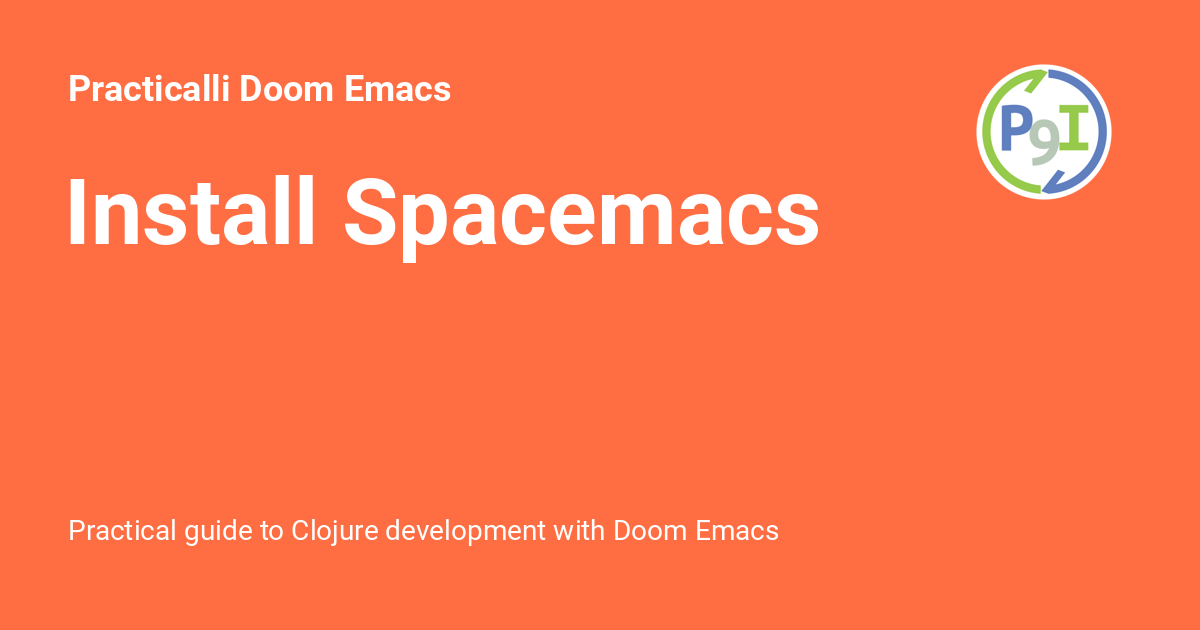
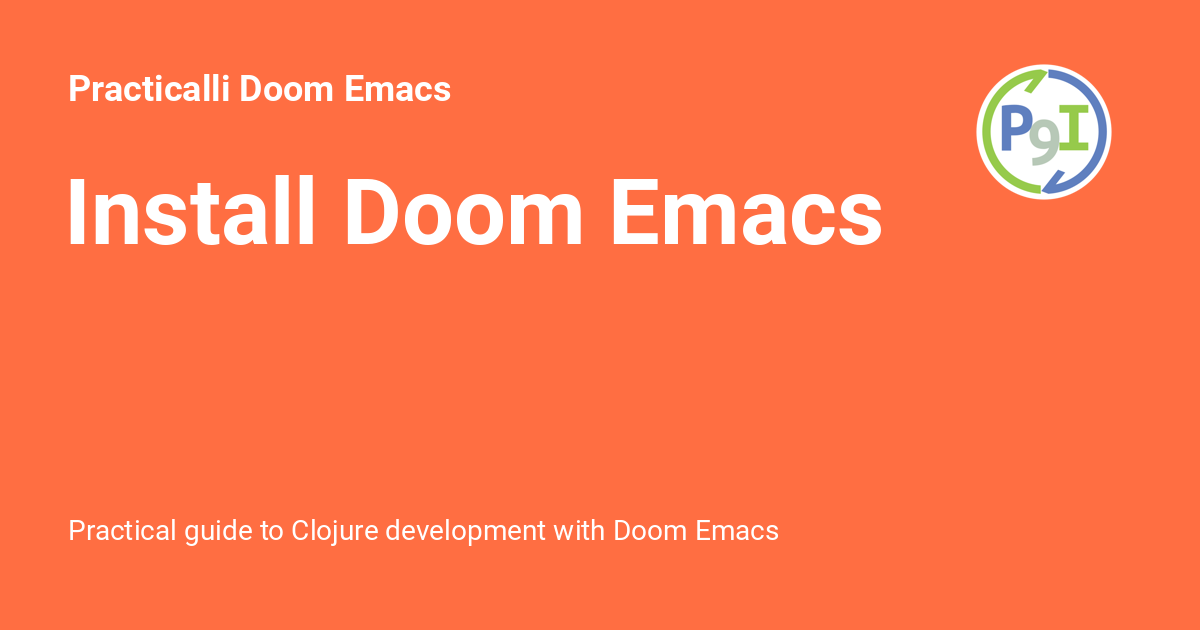
Deployed 2916419 with MkDocs version: 1.4.2

Changed region(s): [[0.2775, 0.2714, 0.74, 0.4222]]

diff --git a/install/index.html b/install/index.html
@@ -12,7 +12,7 @@
 <link href="doom-configuration/" rel="next"/>
 <link href="../assets/favicon.svg" rel="icon"/>
 <meta content="mkdocs-1.4.2, mkdocs-material-9.0.2" name="generator"/>
-<title>Install Spacemacs - Practicalli Doom Emacs</title>
+<title>Install Doom Emacs - Practicalli Doom Emacs</title>
 <link href="../assets/stylesheets/main.f56500e0.min.css" rel="stylesheet"/>
 <link href="../assets/stylesheets/palette.2505c338.min.css" rel="stylesheet"/>
 <link crossorigin="" href="https://fonts.gstatic.com" rel="preconnect"/>
@@ -21,7 +21,7 @@
 <link href="../stylesheets/extra.css" rel="stylesheet"/>
 <script>__md_scope=new URL("..",location),__md_hash=e=>[...e].reduce((e,_)=>(e<<5)-e+_.charCodeAt(0),0),__md_get=(e,_=localStorage,t=__md_scope)=>JSON.parse(_.getItem(t.pathname+"."+e)),__md_set=(e,_,t=localStorage,a=__md_scope)=>{try{t.setItem(a.pathname+"."+e,JSON.stringify(_))}catch(e){}}</script>
 <meta content="website" property="og:type"/>
-<meta content="Install Spacemacs - Practicalli Doom Emacs" property="og:title"/>
+<meta content="Install Doom Emacs - Practicalli Doom Emacs" property="og:title"/>
 <meta content="Practical guide to Clojure development with Doom Emacs" property="og:description"/>
 <meta content="https://practical.li/doom-emacs/assets/images/social/install/index.png" property="og:image"/>
 <meta content="image/png" property="og:image:type"/>
@@ -29,7 +29,7 @@
 <meta content="630" property="og:image:height"/>
 <meta content="https://practical.li/doom-emacs/install/" property="og:url"/>
 <meta content="summary_large_image" name="twitter:card"/>
-<meta content="Install Spacemacs - Practicalli Doom Emacs" name="twitter:title"/>
+<meta content="Install Doom Emacs - Practicalli Doom Emacs" name="twitter:title"/>
 <meta content="Practical guide to Clojure development with Doom Emacs" name="twitter:description"/>
 <meta content="https://practical.li/doom-emacs/assets/images/social/install/index.png" name="twitter:image"/>
 <link href="../assets/stylesheets/glightbox.min.css" rel="stylesheet"/><style>
@@ -50,7 +50,7 @@
 <input autocomplete="off" class="md-toggle" data-md-toggle="search" id="__search" type="checkbox"/>
 <label class="md-overlay" for="__drawer"></label>
 <div data-md-component="skip">
-<a class="md-skip" href="#install-spacemacs">
+<a class="md-skip" href="#install-doom-emacs">
           Skip to content
         </a>
 </div>
@@ -74,7 +74,7 @@
 <div class="md-header__topic" data-md-component="header-topic">
 <span class="md-ellipsis">
             
-              Install Spacemacs
+              Install Doom Emacs
             
           </span>
 </div>
@@ -280,25 +280,24 @@
 <a class="md-nav__link" href="#clone-doom-emacs">
     Clone Doom Emacs
   </a>
-</li>
-<li class="md-nav__item">
-<a class="md-nav__link" href="#post-install">
-    Post install
-  </a>
-</li>
+<nav aria-label="Clone Doom Emacs" class="md-nav">
+<ul class="md-nav__list">
 <li class="md-nav__item">
 <a class="md-nav__link" href="#add-doom-command-to-path">
     Add Doom command to path
   </a>
 </li>
-<li class="md-nav__item">
-<a class="md-nav__link" href="#run-emacs">
-    Run Emacs
-  </a>
+</ul>
+</nav>
 </li>
 <li class="md-nav__item">
 <a class="md-nav__link" href="#clone-practicalli-doom-configuration">
     Clone Practicalli Doom configuration
+  </a>
+</li>
+<li class="md-nav__item">
+<a class="md-nav__link" href="#check-update-doom-emacs">
+    Check &amp; Update Doom Emacs
   </a>
 </li>
 <li class="md-nav__item">
@@ -307,13 +306,13 @@
   </a>
 </li>
 <li class="md-nav__item">
-<a class="md-nav__link" href="#all-the-icon-fonts">
-    All The Icon Fonts
+<a class="md-nav__link" href="#language-servers">
+    Language Servers
   </a>
 </li>
 <li class="md-nav__item">
-<a class="md-nav__link" href="#spacemacs-is-ready-for-action">
-    Spacemacs is ready for action
+<a class="md-nav__link" href="#doom-emacs-ready">
+    Doom Emacs ready
   </a>
 </li>
 </ul>
@@ -323,19 +322,16 @@
 </div>
 <div class="md-content" data-md-component="content">
 <article class="md-content__inner md-typeset">
-<h1 id="install-spacemacs">Install Spacemacs<a class="headerlink" href="#install-spacemacs" title="Permanent link">λ</a></h1>
+<h1 id="install-doom-emacs">Install Doom Emacs<a class="headerlink" href="#install-doom-emacs" title="Permanent link">λ</a></h1>
 <p><a class="md-button" href="pre-install/">Install prerequisites: Emacs, Java 17, Clojure CLI and Command Line tools </a></p>
 <ol>
 <li><a href="#clojure-doom-emacs">Clone Doom Emacs</a> to <code>~/.config/emacs</code></li>
-<li><a href="#clone-practicalli-doom-emacs-configuration">Clone practicalli/doom-emacs-config configuration</a> to add common layers for Clojure development.  Or start Emacs and use the Spacemacs install wizard for basic config, follow the <a href="manual-configuration/">manual configuration section</a> for additional features.</li>
-<li>[optional] <a href="#install-fira-code-font">Install Fira Code font</a> (change <code>dotspacemacs-default-font</code> to a name of a font on your operating system in <code>.spacemacs.d/init.el</code> in step 4)</li>
-<li><a href="#all-the-icon-fonts">Install All The Icons fonts for doom modeline theme</a></li>
+<li><a href="#clone-practicalli-doom-emacs-configuration">Clone practicalli/doom-emacs-config configuration</a> to add common modules for Clojure development and related languages.  Or edit <code>~/.config/doom/init.el</code> and define the Doom modules required. Follow the <a href="doom-configuration/">Doom configuration section</a> for details.</li>
+<li>[optional] <a href="#install-fira-code-font">Install Fira Code font</a> (change <code>dotspacemacs-default-font</code> to a name of a font on your operating system in <code>.spacemacs.d/init.el</code> in step 4)
+4.</li>
 </ol>
 <h2 id="clone-doom-emacs">Clone Doom Emacs<a class="headerlink" href="#clone-doom-emacs" title="Permanent link">λ</a></h2>
 <p>Use your favourite git client or the following command in a terminal window to clone Spacemacs and then run the Doom Emacs install script</p>
-<details class="hint">
-<summary>Use Practicalli Doom Emacs config rather than install</summary>
-</details>
 <div class="tabbed-set tabbed-alternate" data-tabs="1:2"><input checked="checked" id="__tabbed_1_1" name="__tabbed_1" type="radio"><input id="__tabbed_1_2" name="__tabbed_1" type="radio"><div class="tabbed-labels"><label for="__tabbed_1_1">Free Desktop XDG config</label><label for="__tabbed_1_2">Classic config</label></div>
 <div class="tabbed-content">
 <div class="tabbed-block">
@@ -353,101 +349,112 @@
 </div>
 </div>
 </input></input></div>
-<h2 id="post-install">Post install<a class="headerlink" href="#post-install" title="Permanent link">λ</a></h2>
-<p>Doom Emacs outputs the following message at the end of the install</p>
-<ol>
-<li>Don't forget to run 'doom sync', then restart Emacs, after modifying
-   ~/.doom.d/init.el or ~/.doom.d/packages.el.</li>
-</ol>
-<p>This command ensures needed packages are installed, orphaned packages are
-   removed, and your autoloads/cache files are up to date. When in doubt, run
-   'doom sync'!</p>
-<ol>
-<li>
-<p>If something goes wrong, run <code>doom doctor</code>. It diagnoses common issues with
-   your environment and setup, and may offer clues about what is wrong.</p>
-</li>
-<li>
-<p>Use 'doom upgrade' to update Doom. Doing it any other way will require
-   additional steps. Run 'doom help upgrade' to understand those extra steps.</p>
-</li>
-<li>
-<p>Access Doom's documentation from within Emacs via 'SPC h d h' or 'C-h d h'
-   (or 'M-x doom/help')</p>
-</li>
-</ol>
-<h2 id="add-doom-command-to-path">Add Doom command to path<a class="headerlink" href="#add-doom-command-to-path" title="Permanent link">λ</a></h2>
-<p>Add <code>.config/emacs/bin</code> to </p>
-<p>Or create a symbolic link</p>
-<div class="highlight"><pre><span></span><code><a href="#__codelineno-2-1" id="__codelineno-2-1" name="__codelineno-2-1"></a><span class="nb">cd</span><span class="w"> </span>.local/bin
-<a href="#__codelineno-2-2" id="__codelineno-2-2" name="__codelineno-2-2"></a>ln<span class="w"> </span>-s<span class="w"> </span>~/.config/emacs/bin/doom<span class="w"> </span>doom
-</code></pre></div>
-<h2 id="run-emacs">Run Emacs<a class="headerlink" href="#run-emacs" title="Permanent link">λ</a></h2>
-<p>The packages have been downloaded as part of the Doom Emacs install process.</p>
-<p>Run emacs from a desktop launcher or on the command line:
-<div class="highlight"><pre><span></span><code><a href="#__codelineno-3-1" id="__codelineno-3-1" name="__codelineno-3-1"></a>emacs
-</code></pre></div></p>
-<div class="admonition warning">
-<p class="admonition-title">Native compliation initial high cpu use</p>
-<p>On first running Emacs after Doom install added packages, the elisp code will be compiled to native binaries.  The compilation will use a lot of CPU resources</p>
-</div>
-<h2 id="clone-practicalli-doom-configuration">Clone Practicalli Doom configuration<a class="headerlink" href="#clone-practicalli-doom-configuration" title="Permanent link">λ</a></h2>
-<div class="admonition warning">
-<p class="admonition-title">Not started yet</p>
-</div>
-<p>Clone <a href="https://github.com/practicalli/doom-emacs-config">practicalli/doom-emacs-config</a> or first create a fork and clone that fork</p>
-<div class="tabbed-set tabbed-alternate" data-tabs="2:2"><input checked="checked" id="__tabbed_2_1" name="__tabbed_2" type="radio"><input id="__tabbed_2_2" name="__tabbed_2" type="radio"><div class="tabbed-labels"><label for="__tabbed_2_1">Free Desktop XDG config</label><label for="__tabbed_2_2">Classic config</label></div>
+<h3 id="add-doom-command-to-path">Add Doom command to path<a class="headerlink" href="#add-doom-command-to-path" title="Permanent link">λ</a></h3>
+<p>Doom provides tools to check the user configuration, <code>doom doctor</code>, and to update modules, <code>`Either add</code>.config/emacs/bin` to the system path</p>
+<div class="tabbed-set tabbed-alternate" data-tabs="2:2"><input checked="checked" id="__tabbed_2_1" name="__tabbed_2" type="radio"><input id="__tabbed_2_2" name="__tabbed_2" type="radio"><div class="tabbed-labels"><label for="__tabbed_2_1">Symbolic link</label><label for="__tabbed_2_2">Export PATH</label></div>
 <div class="tabbed-content">
 <div class="tabbed-block">
-<p>Using SSH
-<div class="highlight"><pre><span></span><code><a href="#__codelineno-4-1" id="__codelineno-4-1" name="__codelineno-4-1"></a>git<span class="w"> </span>clone<span class="w"> </span>git@github.com:practicalli/doom-emacs-config.git<span class="w"> </span>~/.config/doom
-</code></pre></div></p>
-<p>Using HTTPS
-<div class="highlight"><pre><span></span><code><a href="#__codelineno-5-1" id="__codelineno-5-1" name="__codelineno-5-1"></a>git<span class="w"> </span>clone<span class="w"> </span>https://github.com/practicalli/doom-emacs-config<span class="w"> </span>~/.config/doom
+<p>Create a symbolic link called doom from the local user bin directory to the Doom Emacs installation bin/doom file
+<div class="highlight"><pre><span></span><code><a href="#__codelineno-2-1" id="__codelineno-2-1" name="__codelineno-2-1"></a>ln<span class="w"> </span>-s<span class="w"> </span>~/.config/emacs/bin/doom<span class="w"> </span>.local/bin/doom
 </code></pre></div></p>
 </div>
 <div class="tabbed-block">
-<p>Using SSH
-<div class="highlight"><pre><span></span><code><a href="#__codelineno-6-1" id="__codelineno-6-1" name="__codelineno-6-1"></a>git<span class="w"> </span>clone<span class="w"> </span>git@github.com:practicalli/doom-emacs-config.git<span class="w"> </span>~/.config/doom
+<p>In the user shell configuration file (<code>~/.bashrc</code>, <code>~/.zshenv</code>), export the PATH environment variable and include the path to the Doom Emacs install bin directory
+<div class="highlight"><pre><span></span><code><a href="#__codelineno-3-1" id="__codelineno-3-1" name="__codelineno-3-1"></a><span class="nb">export</span><span class="w"> </span><span class="nv">PATH</span><span class="o">=</span><span class="nv">$PATH</span>:<span class="nv">$HOME</span>/.config/emacs/bin
 </code></pre></div></p>
-<p>Using HTTP
-<div class="highlight"><pre><span></span><code><a href="#__codelineno-7-1" id="__codelineno-7-1" name="__codelineno-7-1"></a>git<span class="w"> </span>clone<span class="w"> </span>https://github.com/practicalli/doom-emacs-config<span class="w"> </span>~/.config/doom
-</code></pre></div></p>
-<p><code>~/.spacemacs.d/init.el</code> is the main configuration file, ensure <code>~/.spacemacs</code> file does not exist as that file would take precedence.</p>
 </div>
 </div>
 </input></input></div>
-<details class="info">
-<summary>Emacs custom settings</summary>
-<p><code>.spacemacs.d/init.el</code> configuration separates Emacs custom settings into a <code>emacs-custom-setting</code> file.  <code>emacs-custom-setting</code> should be added to version control if the Emacs <code>customize</code> menu has been used to define settings.
-<code>emacs-custom-file</code> is defined in the <code>dotspacemacs/user-init</code> of the Spacemacs configuration
-<div class="highlight"><pre><span></span><code><a href="#__codelineno-8-1" id="__codelineno-8-1" name="__codelineno-8-1"></a><span class="w">  </span><span class="p">(</span><span class="k">setq</span><span class="w"> </span><span class="nv">custom-file</span><span class="w"> </span><span class="p">(</span><span class="nv">file-truename</span><span class="w"> </span><span class="p">(</span><span class="nf">concat</span><span class="w"> </span><span class="nv">dotspacemacs-directory</span><span class="w"> </span><span class="s">"emacs-custom-settings.el"</span><span class="p">)))</span>
-<a href="#__codelineno-8-2" id="__codelineno-8-2" name="__codelineno-8-2"></a><span class="w">  </span><span class="p">(</span><span class="nf">load</span><span class="w"> </span><span class="nv">custom-file</span><span class="p">)</span>
+<h2 id="clone-practicalli-doom-configuration">Clone Practicalli Doom configuration<a class="headerlink" href="#clone-practicalli-doom-configuration" title="Permanent link">λ</a></h2>
+<p>Remove the autogenerated configuration from the Doom install</p>
+<div class="highlight"><pre><span></span><code><a href="#__codelineno-4-1" id="__codelineno-4-1" name="__codelineno-4-1"></a>mv<span class="w"> </span>~/.config/doom<span class="w"> </span>~/.config/doom-backup
 </code></pre></div>
-A specific path could also be used to define the location of the custom file: <code>(setq custom-file "~/.emacs.d/.cache/custom-settings")</code></p>
+<p>Clone <a href="https://github.com/practicalli/doom-emacs-config">practicalli/doom-emacs-config</a> or first create a fork and clone that fork</p>
+<div class="tabbed-set tabbed-alternate" data-tabs="3:2"><input checked="checked" id="__tabbed_3_1" name="__tabbed_3" type="radio"><input id="__tabbed_3_2" name="__tabbed_3" type="radio"><div class="tabbed-labels"><label for="__tabbed_3_1">Free Desktop XDG config</label><label for="__tabbed_3_2">Classic config</label></div>
+<div class="tabbed-content">
+<div class="tabbed-block">
+<p>Using SSH
+<div class="highlight"><pre><span></span><code><a href="#__codelineno-5-1" id="__codelineno-5-1" name="__codelineno-5-1"></a>git<span class="w"> </span>clone<span class="w"> </span>git@github.com:practicalli/doom-emacs-config.git<span class="w"> </span>~/.config/doom
+</code></pre></div></p>
+<p>Using HTTPS
+<div class="highlight"><pre><span></span><code><a href="#__codelineno-6-1" id="__codelineno-6-1" name="__codelineno-6-1"></a>git<span class="w"> </span>clone<span class="w"> </span>https://github.com/practicalli/doom-emacs-config<span class="w"> </span>~/.config/doom
+</code></pre></div></p>
+</div>
+<div class="tabbed-block">
+<p>Using SSH
+<div class="highlight"><pre><span></span><code><a href="#__codelineno-7-1" id="__codelineno-7-1" name="__codelineno-7-1"></a>git<span class="w"> </span>clone<span class="w"> </span>git@github.com:practicalli/doom-emacs-config.git<span class="w"> </span>~/.config/doom
+</code></pre></div></p>
+<p>Using HTTP
+<div class="highlight"><pre><span></span><code><a href="#__codelineno-8-1" id="__codelineno-8-1" name="__codelineno-8-1"></a>git<span class="w"> </span>clone<span class="w"> </span>https://github.com/practicalli/doom-emacs-config<span class="w"> </span>~/.config/doom
+</code></pre></div></p>
+</div>
+</div>
+</input></input></div>
+<h2 id="check-update-doom-emacs">Check &amp; Update Doom Emacs<a class="headerlink" href="#check-update-doom-emacs" title="Permanent link">λ</a></h2>
+<p><code>doom doctor</code> diagnoses common issues with your environment and setup, and may offer clues about what is wrong.</p>
+<p><code>doom sync</code> ensures Emacs packages are installed, orphaned packages are removed and autoloads/cache files are up to date. </p>
+<div class="highlight"><pre><span></span><code><a href="#__codelineno-9-1" id="__codelineno-9-1" name="__codelineno-9-1"></a><span class="w"> </span>doom<span class="w"> </span>doctor<span class="w"> </span><span class="o">&amp;&amp;</span><span class="w"> </span>doom<span class="w"> </span>sync
+</code></pre></div>
+<details class="hint">
+<summary>doom doctor - successful output example</summary>
+<p><a class="glightbox" data-desc-position="bottom" data-height="auto" data-width="100%" href="https://raw.githubusercontent.com/practicalli/graphic-design/live/doom-emacs/doom-doctor-output-green.png"><img alt="Doom doctor - successful output" src="https://raw.githubusercontent.com/practicalli/graphic-design/live/doom-emacs/doom-doctor-output-green.png"/></a></p>
 </details>
 <h2 id="install-fira-code-font">Install Fira Code font<a class="headerlink" href="#install-fira-code-font" title="Permanent link">λ</a></h2>
 <p><a class="md-button" href="https://github.com/tonsky/FiraCode/wiki/Installing" target="_blank">Install Fira Code</a></p>
-<p><a href="https://github.com/practicalli/spacemacs.d">practicalli/spacemacs.d</a> uses Fira Code, a mono-spaced font designed for source code and includes <a href="https://github.com/tonsky/FiraCode#whats-in-the-box">ligatures</a> and <a href="https://github.com/tonsky/FiraCode#whats-in-the-box">many other features</a>.</p>
+<p><a href="https://github.com/practicalli/doom-emacs-config">practicalli/doom-emacs-config</a> uses Fira Code, a mono-spaced font designed for source code and includes <a href="https://github.com/tonsky/FiraCode#whats-in-the-box">ligatures</a> and <a href="https://github.com/tonsky/FiraCode#whats-in-the-box">many other features</a>.</p>
 <p><a class="glightbox" data-desc-position="bottom" data-height="auto" data-width="100%" href="https://raw.githubusercontent.com/practicalli/graphic-design/live/clojure/fira-code-font-clojure-ligatures.png"><img alt="Fira Code font - ligatures for Emacs and Clojure code" src="https://raw.githubusercontent.com/practicalli/graphic-design/live/clojure/fira-code-font-clojure-ligatures.png"/></a></p>
 <div class="admonition tip">
-<p class="admonition-title">Use a different font with practicalli/spacemacs.d</p>
-<p>To use a different font when using the <a href="https://github.com/practicalli/spacemacs.d">practicalli/spacemacs.d</a>, edit <code>.spacemacs.d/init.el</code> and update the value for <code>dotspacemacs-default-font</code> to a name of a font on your system.</p>
+<p class="admonition-title">Use a different font with practicalli/doom-emacs-config</p>
+<p>To use a different font when using the <a href="https://github.com/practicalli/doom-emacs-config">practicalli/doom-emacs-config</a>, edit <code>.config/doom/config.el</code> and update the value for <code>doom-font</code> and any variations of fonts required
+<div class="highlight"><pre><span></span><code><a href="#__codelineno-10-1" id="__codelineno-10-1" name="__codelineno-10-1"></a><span class="p">(</span><span class="k">setq</span><span class="w"> </span><span class="nv">doom-font</span><span class="w"> </span><span class="p">(</span><span class="nf">font-spec</span><span class="w"> </span><span class="nb">:family</span><span class="w"> </span><span class="s">"Fira Code"</span><span class="w"> </span><span class="nb">:size</span><span class="w"> </span><span class="mi">14</span><span class="p">)</span>
+<a href="#__codelineno-10-2" id="__codelineno-10-2" name="__codelineno-10-2"></a><span class="w">      </span><span class="nv">doom-big-font</span><span class="w"> </span><span class="p">(</span><span class="nf">font-spec</span><span class="w"> </span><span class="nb">:family</span><span class="w"> </span><span class="s">"Fira Code"</span><span class="w"> </span><span class="nb">:size</span><span class="w"> </span><span class="mi">24</span><span class="p">)</span>
+<a href="#__codelineno-10-3" id="__codelineno-10-3" name="__codelineno-10-3"></a><span class="w">      </span><span class="nv">doom-variable-pitch-font</span><span class="w"> </span><span class="p">(</span><span class="nf">font-spec</span><span class="w"> </span><span class="nb">:family</span><span class="w"> </span><span class="s">"Ubuntu"</span><span class="w"> </span><span class="nb">:size</span><span class="w"> </span><span class="mi">16</span><span class="p">))</span>
+</code></pre></div></p>
 </div>
-<h2 id="all-the-icon-fonts">All The Icon Fonts<a class="headerlink" href="#all-the-icon-fonts" title="Permanent link">λ</a></h2>
-<p><a href="https://github.com/practicalli/spacemacs.d" target="_blank">practicalli/spacemacs.d</a> configuration uses the modern looking doom modeline theme, which requires a few fonts and icons.</p>
-<p><code>SPC SPC all-the-icons-install-fonts</code> once Spacemacs is running will install the fonts.</p>
-<p><span class="keys"><kbd class="key-space">Space</kbd></span> <span class="keys"><kbd>q</kbd></span> <span class="keys"><kbd>r</kbd></span> to restart Spacemacs and see the finished results</p>
-<p><a class="glightbox" data-desc-position="bottom" data-height="auto" data-width="100%" href="https://raw.githubusercontent.com/practicalli/graphic-design/live/spacemacs/screenshots/spacemacs-doom-gruvbox-light-theme-examples-home-spacemacs-config.png"><img alt="Spacemacs - doom-gruvbox-light theme - home and spacemacs config buffers" src="https://raw.githubusercontent.com/practicalli/graphic-design/live/spacemacs/screenshots/spacemacs-doom-gruvbox-light-theme-examples-home-spacemacs-config.png"/></a></p>
-<h2 id="spacemacs-is-ready-for-action">Spacemacs is ready for action<a class="headerlink" href="#spacemacs-is-ready-for-action" title="Permanent link">λ</a></h2>
-<p>Spacemacs is now up and running and ready to take on the world.</p>
-<p>If you already know how to use Spacemacs, jump to the <a href="/spacemacs/clojure-projects/">Clojure Projects section</a>, otherwise look through the <a href="/spacemacs/spacemacs-basics/">Spacemacs Basics section</a> to learn how to use Vim style editing and work with files, buffers and windows in Spacemacs.</p>
+<h2 id="language-servers">Language Servers<a class="headerlink" href="#language-servers" title="Permanent link">λ</a></h2>
+<p>Some languages support Language Server Protocol to provide static analysis of code structure and provide live linting and other features.  Each language will require installation of its own language server, most often as a nodejs package.</p>
+<div class="highlight"><pre><span></span><code><a href="#__codelineno-11-1" id="__codelineno-11-1" name="__codelineno-11-1"></a>sudo npm install --global vscode-json-languageserver dockerfile-language-server-nodejs vscode-html-languageservice vscode-css-languageservice yaml-language-server
+</code></pre></div>
+<p>Or install a language server for the specific language</p>
+<div class="tabbed-set tabbed-alternate" data-tabs="4:4"><input checked="checked" id="__tabbed_4_1" name="__tabbed_4" type="radio"><input id="__tabbed_4_2" name="__tabbed_4" type="radio"><input id="__tabbed_4_3" name="__tabbed_4" type="radio"/><input id="__tabbed_4_4" name="__tabbed_4" type="radio"/><div class="tabbed-labels"><label for="__tabbed_4_1">JSON</label><label for="__tabbed_4_2">Docker</label><label for="__tabbed_4_3">Web</label><label for="__tabbed_4_4">YAML</label></div>
+<div class="tabbed-content">
+<div class="tabbed-block">
+<p>Add <code>(json +lsp)</code> doom module in <code>.config/doom/init.el</code> and install the JSON language server
+<div class="highlight"><pre><span></span><code><a href="#__codelineno-12-1" id="__codelineno-12-1" name="__codelineno-12-1"></a>sudo npm install --global yaml-language-server
+</code></pre></div></p>
+</div>
+<div class="tabbed-block">
+<p>Add <code>(docker +lsp)</code> doom module in <code>.config/doom/init.el</code> and install the Dockerfile language server
+<div class="highlight"><pre><span></span><code><a href="#__codelineno-13-1" id="__codelineno-13-1" name="__codelineno-13-1"></a>sudo npm install --global dockerfile-language-server-nodejs
+</code></pre></div></p>
+</div>
+<div class="tabbed-block">
+<p>Add <code>(web +lsp)</code> doom module in <code>.config/doom/init.el</code> and install the HTML and CSS language servers
+<div class="highlight"><pre><span></span><code><a href="#__codelineno-14-1" id="__codelineno-14-1" name="__codelineno-14-1"></a>sudo npm install --global vscode-html-languageservice vscode-css-languageservice
+</code></pre></div></p>
+</div>
+<div class="tabbed-block">
+<p>Add <code>(yaml +lsp)</code> doom module in <code>.config/doom/init.el</code> and install the YAML language server
+<div class="highlight"><pre><span></span><code><a href="#__codelineno-15-1" id="__codelineno-15-1" name="__codelineno-15-1"></a>sudo npm install --global yaml-language-server
+</code></pre></div></p>
+</div>
+</div>
+</input></input></div>
+<h2 id="doom-emacs-ready">Doom Emacs ready<a class="headerlink" href="#doom-emacs-ready" title="Permanent link">λ</a></h2>
+<p>Doom Emacs is and ready to help you take on the world. Run emacs from a desktop launcher or on the command line:</p>
+<div class="highlight"><pre><span></span><code><a href="#__codelineno-16-1" id="__codelineno-16-1" name="__codelineno-16-1"></a>emacs
+</code></pre></div>
+<div class="admonition warning">
+<p class="admonition-title">Native compliation initial high cpu use</p>
+<p>On first running Emacs after Doom install added packages, the elisp code will be compiled to native binaries.  The compilation will use considerable CPU resources.</p>
+</div>
+<p>If you already know how to use Doom Emacs, jump to the <a href="/doom-emacs/clojure-development/">Clojure Projects section</a>, otherwise look through the <a href="/doom-emacs/basics/">Doom Basics</a> to learn how to use Vim style editing and work with files, buffers and windows.</p>
 <hr/>
 <div class="md-source-file">
 <small>
     
       Last update:
-      <span class="git-revision-date-localized-plugin git-revision-date-localized-plugin-date">December 30, 2022</span>
+      <span class="git-revision-date-localized-plugin git-revision-date-localized-plugin-date">January 5, 2023</span>
 </small>
 </div>
 </article>
